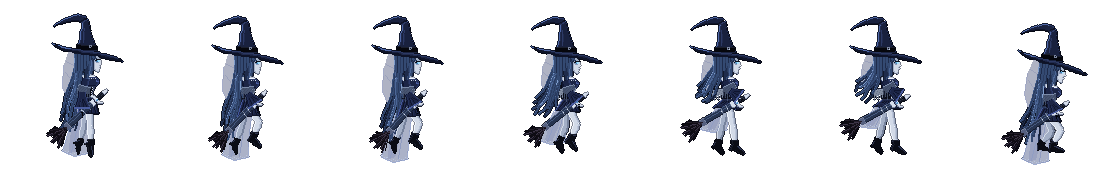
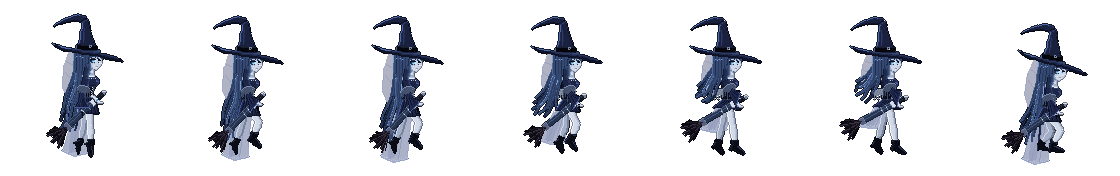
에스카 얼굴을 3/4 각도로 한 칸씩 다시 찍음, 대기 자세 손을 검 손잡이에 (기획서 0.32)
Claude-Session: https://claude.ai/code/session_014QTsqSnFBNjsgiSz2QVxpP

diff --git a/tools/eska_sprite.py b/tools/eska_sprite.py
@@ -34,7 +34,8 @@ C = {
     "skin_d": hx("#76829c"), "skin_s": hx("#a3afc6"), "skin_m": hx("#bcc6da"), "skin": hx("#d2dae8"), "skin_h": hx("#eef3fb"),
     "under": hx("#8e9ab9"),
     "eye": hx("#a8e2ff"), "eye_m": hx("#6cb8e6"), "eye2": hx("#3f7fb3"), "lash": hx("#0a0e1a"), "lash_m": hx("#2a3550"),
-    "lip": hx("#9aa3bd"),
+    "lip": hx("#8d96b2"), "lip_l": hx("#e6ebf5"),
+    "sclera": hx("#e2eaf6"), "glow": hx("#c4dcf2"), "blush": hx("#c9c3df"), "under2": hx("#b2bbd2"),
     "bl_d": hx("#0f1530"), "bl": hx("#1c2546"), "bl_m": hx("#243058"), "bl_l": hx("#2f3c6c"), "bl_r": hx("#4a5c9e"),
     "shawl_d": hx("#3c4864", 205), "shawl": hx("#56647f", 190), "shawl_l": hx("#8494b2", 215),
     "cor": hx("#0a0d19"), "cor_m": hx("#151a2c"), "cor_l": hx("#2a3250"),
@@ -256,7 +257,7 @@ def rotsprite(layer, deg, pivot):
 # ================================================================ 상체 (숙임 회전 층)
 def torso(_):
     # 목: 턱 밑은 그늘
-    neck = poly_cells([(20.2, 28.2), (23.0, 28.2), (23.2, 31.2), (20.0, 31.2)])
+    neck = poly_cells([(22.5, 27.6), (24.5, 27.6), (24.8, 31.2), (22.0, 31.2)])
     paint(neck, "skin_s", left="skin_d")
     for (x, y) in neck:
         if y <= cv(0, 28.9)[1]:
@@ -264,7 +265,7 @@ def torso(_):
     # 드러난 어깨·쇄골
     sh = poly_cells([(18.6, 30.7), (21.5, 30.3), (24.6, 30.6), (25.6, 31.9), (18.3, 32.3)])
     paint(sh, "skin", left="skin_s", top="skin_m")
-    line(21.6, 31.2, 24.6, 31.0, "skin_h")   # 쇄골 빛
+    line(22.2, 31.2, 24.2, 31.0, "skin_h")   # 쇄골 빛 (짧게)
     line(21.0, 31.6, 23.4, 31.5, "skin_m")   # 쇄골 아래 그늘
     # 블라우스: 일자 목선, 가슴 둥근 면, 가슴 밑 그늘
     bl = poly_cells([(18.4, 32.0), (25.7, 31.8), (26.7, 32.6), (27.1, 33.8), (26.8, 35.0), (25.8, 35.9), (19.0, 36.1), (18.5, 34.0)])
@@ -301,54 +302,70 @@ def shawl_back(_):
                 dot(x, low[x] + 1 + k, "shawl_d" if k % 2 else "shawl")
 
 
+# 얼굴 (3/4 각도) — 앞머리·눈썹·눈·코·입·턱·목을 칸 해상도로 한 칸씩 직접 찍은 18×18 영역.
+# 열 0 = 칸 x 84, 행 0 = 칸 y 57 (대기 자세 기준). 윗줄은 모자 챙이 덮는다.
+# 큰 앞쪽 눈(위 어두운 남색 → 아래 밝은 하늘색, 하이라이트 없음, 안쪽에 옅은 흰자) + 좁은 뒤쪽 눈,
+# 끝이 처진 진한 위 속눈썹, 살짝 처진 가는 눈썹, 앞쪽 눈 바깥을 지나는 앞머리 한 가닥, 눈 밑 옅은 그늘,
+# 작은 코(콧대 그늘 + 코끝 빛), 작은 입, 옅은 라벤더 볼, 귀 쪽에서 턱끝으로 내려오는 V자 턱선, 가는 목.
+FACE = [
+    # 012345678901234567
+    "HHHDHHHHDHHHHDHHHH",  # 0  y57 챙 밑
+    "HHHDHHDHHDHHDHHDHH",  # 1  y58 앞머리
+    "HHDHHDmmmDmHmmDHH.",  # 2  y59 앞머리 끝 사이로 이마
+    "HHDHmDqqqmsDqqmHH_",  # 3  y60 살짝 처진 가는 눈썹 + 쌍꺼풀 그늘
+    "HHDHkkkkkksskkkmD_",  # 4  y61 무거운 윗눈꺼풀의 진한 속눈썹
+    "HHDHkDeeiwsneksm__",  # 5  y62 눈동자 위 (눈꺼풀 그늘로 어두움), 처진 눈꼬리
+    "HHDHqDiEEwsnEssm__",  # 6  y63 눈동자 아래 (밝게 빛남, 하이라이트 없음)
+    "HHDHSqqiqsssqssv__",  # 7  y64 아래 속눈썹, 광대 빛
+    "HDHHSsugussssvsm__",  # 8  y65 눈 밑 옅은 그늘, 코끝
+    "HDHHSppsssssmpm___",  # 9  y66 볼, 콧방울 그늘
+    "HDHHSSssssssssm___",  # 10 y67
+    "HDHHHSsssmllsm____",  # 11 y68 작은 입
+    "HDHHH_Ssssvsm_____",  # 12 y69 아랫입술 빛
+    "HDHHHzzSsssm______",  # 13 y70 턱, 턱 밑 그늘
+    "HDHHHzSS_Sm_______",  # 14 y71 턱끝 (목과 사이에 틈)
+    "HDHHHSssS_________",  # 15 y72 가는 목
+    "HDHHHSssS_________",  # 16 y73
+    "HDHHHSssS_________",  # 17 y74
+]
+FACE_KEY = {"H": "hair", "D": "hair_d", "M": "hair_m", "L": "hair_l", "K": "hair_dd",
+            "s": "skin", "S": "skin_s", "m": "skin_m", "v": "skin_h", "z": "skin_d", "u": "under2", "U": "under",
+            "k": "lash", "q": "lash_m", "e": "eye2", "i": "eye_m", "E": "eye", "w": "sclera", "g": "glow",
+            "p": "blush", "n": "skin_m", "l": "lip", "_": "clear"}
+FC, FR = 14, 9   # 얼굴 영역의 머리 스탬프 안 위치
+
+
 @lifted
 def head(_):
-    # 머리: 뒤쪽은 세로로 흐르는 머릿결(결 줄 + 뒤 가장자리 역광)을 자동으로 깔고, 얼굴은 칸 해상도로 손으로 찍는다.
-    # 얼굴: 챙 그늘 아래 이마, 끝이 처진 긴 속눈썹, 하이라이트 없이 빛나는 눈, 눈 밑 그늘, 작은 코끝, 얇은 입술, 뾰족한 턱.
-    FACE = [
-        # c16 ~ c27
-        "HDDDDDDD....",  # r0  챙 밑
-        "HHDDDDDDD...",  # r1
-        "HDHHDDSS_...",  # r2  이마 (챙 그늘)
-        "HDHHHDSSS_..",  # r3
-        "HHDHDHDSSS__",  # r4  뾰족한 앞머리 끝
-        "HHmDDSkkkkk_",  # r5  긴 속눈썹 (끝이 앞으로 뻗음)
-        "HHDDSkeiEEs_",  # r6  처진 눈꼬리 + 빛나는 눈
-        "HHmDSuueEEs_",  # r7
-        "HHHDSsuuuss_",  # r8  눈 밑 그늘
-        "HHHDSssssssv",  # r9  코끝
-        "HHHDSsssssS_",  # r10
-        "HHHDSssssS__",  # r11
-        "HHHDSssssss_",  # r12 윗입술
-        "HHHDSssssl__",  # r13 입술 선
-        "HHHDSSssss__",  # r14
-        "HHHD_Ssss___",  # r15 턱
-        "HHHD__SssS__",  # r16 뾰족한 턱끝
-        "HHHD___zS___",  # r17 턱 밑 (턱선은 실루엣 경계로 귀 쪽 대각선)
-        "HHHD........",  # r18
-        "HHHD........",  # r19
-    ]
-    STRANDS = {3: "D", 6: "m", 9: "D", 12: "m", 15: "D"}
-    rows = []
-    for r, face in enumerate(FACE):
-        if r == 0:
-            back = "K" * 16
-        else:
-            rim = "T" if 5 <= r <= 9 else "L"
-            back = rim + "".join(STRANDS.get(c, "H") for c in range(1, 16))
-            if r >= 15:
-                back = "." * (r - 14) + back[r - 14:]
-        rows.append(back + face)
-    stamp(14, 22, rows, {"K": "hair_dd", "D": "hair_d", "m": "hair_m", "H": "hair", "L": "hair_l", "T": "hair_h",
-                         "S": "skin_s", "s": "skin", "v": "skin_h", "z": "skin_d", "u": "under",
-                         "k": "lash", "e": "eye2", "i": "eye_m", "E": "eye", "l": "lip", "_": "clear"})
-    # 얼굴에 흘러내린 잔머리 한 가닥
-    line(22.6, 24.0, 22.2, 27.6, "hair_d")
-    # 옆머리 (귀 앞에서 가슴까지, 끝이 뾰족) — 결 줄
-    side = tube([(21.4, 25.5), (21.6, 30.0), (21.2, 34.0), (21.6, 36.6)], lambda t: 1.9 * (1 - t) ** 0.7 + 0.4)
+    X0, Y0 = cv(13, 18)
+    X0, Y0 = round(X0), round(Y0)          # 대기 자세에서 (70, 48)
+
+    def hp(c, r, col):
+        dot(X0 + c, Y0 + r, col)
+    # 1) 뒷머리 덩어리: 모자 밑에서 둥글게, 세로로 흐르는 결 줄 + 뒤 가장자리 역광 + 윤기 띠
+    for r in range(0, 27):
+        lx = 3 if r < 3 else 2 if r < 6 else 1
+        rx = 23 if r < 4 else 27 if r < 9 else 13
+        for c in range(lx, rx + 1):
+            col = "hair"
+            if c in (4, 10, 16):
+                col = "hair_d"
+            elif c in (7, 13):
+                col = "hair_m"
+            hp(c, r, col)
+        hp(lx, r, "hair_h" if 8 <= r <= 15 else "hair_l")
+    for c in range(3, 12):                  # 윤기 띠 (천사의 고리)
+        hp(c, 11 + (c % 3 == 0), "hair_l" if c % 2 else "hair_h")
+    # 2) 얼굴 (앞머리 포함, 한 칸씩 찍은 영역)
+    for r, row in enumerate(FACE):
+        for c, ch in enumerate(row):
+            if ch in FACE_KEY:
+                hp(FC + c, FR + r, FACE_KEY[ch])
+    # 4) 옆머리: 귀 앞에서 가슴까지, 앞쪽 볼선을 감싸고 끝이 뾰족
+    side = tube([(21.0, 27.0), (21.3, 31.0), (21.1, 34.5), (21.6, 37.5)], lambda t: 1.8 * (1 - t) ** 0.7 + 0.35)
     paint(side, "hair", left="hair_d", right="hair_l")
-    line(21.4, 27.0, 21.5, 33.5, "hair_m")
-    side2 = tube([(20.3, 30.0), (20.2, 34.0), (20.5, 37.6)], lambda t: 1.4 * (1 - t) + 0.4)
+    line(21.1, 28.0, 21.3, 34.0, "hair_m")
+    side2 = tube([(20.0, 29.0), (19.8, 33.5), (20.2, 38.0)], lambda t: 1.3 * (1 - t) + 0.35)
     paint(side2, "hair_d", left="hair_dd")
 
 
@@ -607,7 +624,7 @@ def weapon(p):
     paint(tube([add(g, d, -1.2), add(g, d, -4.6)], lambda t: 1.3), "grip", top="grip_l")
     for k in (2.0, 3.2, 4.2):  # 손잡이 감은 가죽 결
         pt(*add(g, d, -k), "grip_l")
-    paint(tube([add(g, d, -5.0), add(g, d, -7.2)], lambda t: 1.4 * (1 - t) + 0.3), "silver", bottom="silver_d")
+    paint(tube([add(g, d, -4.8), add(g, d, -5.9)], lambda t: 1.3 * (1 - t) + 0.4), "silver_d", top="silver")  # 작은 은 폼멜
     for s in (1, -1):
         arm = [g, add(g, n, s * 1.4), add(add(g, n, s * 2.6), d, s * 0.3), add(add(g, n, s * 3.3), d, s * 1.2)]
         paint(tube(arm, lambda t: 0.9 * (1 - t) + 0.35), "silver", bottom="silver_d")
@@ -630,7 +647,7 @@ def near_arm(p):
     ud = (ux / ul, uy / ul)
     un = (-ud[1], ud[0])
     c0 = add(sh, ud, ul * 0.72)
-    band = tube([add(c0, un, -3.2), add(c0, un, 2.6)], lambda t: 3.0)
+    band = tube([add(c0, un, -3.4), add(c0, un, 2.8)], lambda t: 0.8 + 2.6 * math.sin(math.pi * t) ** 0.7)  # 끝이 가는 렌즈 모양
     for c in band:
         dot(*c, "shawl")
     for (x, y) in band:
@@ -652,10 +669,23 @@ def near_arm(p):
     fl = math.hypot(fx, fy) or 1
     fd = (fx / fl, fy / fl)
     cuff = add(wr, fd, 0.8)
-    bell = tube([el, cuff], lambda t: 3.3 + 4.4 * t ** 1.6)
-    paint(bell, "bl", left="bl_d", right="bl_l", left2="bl_m")
+    # 종 모양 소매: 팔이 수평에 가까울수록 아래 자락이 중력으로 늘어진다 (위 선은 팔을 따라감)
+    n_ = (fd[1], -fd[0])
+    if n_[1] > 0:
+        n_ = (-n_[0], -n_[1])                     # n_ = 위쪽
+    hz = abs(fd[0])                               # 1 = 팔이 수평
+    spread = 1.4 + (1 - hz) * 2.4
+    hang = 4.6 * hz
+    shape = [add(el, n_, 1.65), add(add(el, fd, fl * 0.55), n_, 1.7), add(cuff, n_, spread),
+             add(add(cuff, n_, -spread), (-0.6 * fd[0], hang)), add(add(add(el, fd, fl * 0.5), n_, -1.9), (0, hang * 0.35)),
+             add(el, n_, -1.65)]
+    bell = {c: 0.0 for c in poly_cells(shape)}
+    for c in poly_cells([add(cuff, n_, spread), add(add(cuff, n_, -spread), (-0.6 * fd[0], hang)),
+                         add(add(cuff, fd, -1.2), n_, -spread), add(add(cuff, fd, -1.2), n_, spread)]):
+        bell[c] = 1.0                             # 소매 끝 (안감 빛)
+    paint(bell, "bl", left="bl_d", right="bl_l", left2="bl_m", bottom="bl_d")
     for c, t in bell.items():
-        if t > 0.95:
+        if t > 0.9 and ((c[0] + 1, c[1]) not in bell or (c[0], c[1] + 1) not in bell):
             dot(*c, "bl_r")
     nn = (-fd[1], fd[0])
     for s in (-1.4, -0.3, 0.9):  # 소매 주름
@@ -700,7 +730,7 @@ FAR_HIP = (21.0, 46.0)
 IDLE = {
     "bx": 0, "by": 0, "lean": 0.0,
     "near": ((0.5, 10.0), (0.0, 19.0), 0), "far": ((-2.5, 10.5), (-4.5, 18.5), 0),
-    "elbow": (-0.5, 7.5), "wrist": (0.5, 14.0),
+    "elbow": (-0.3, 6.7), "wrist": (8.2, 7.6),  # 대기: 손을 검 손잡이 끝에 가볍게 얹음
     "hair": (0, 0, 0, 0), "skirt": (0, 0, 0, 0), "over": (0, 0), "veil": (0, 0), "sword": 0, "fringe": 0,
 }
 

diff --git a/tools/eska_anim.py b/tools/eska_anim.py
@@ -299,8 +299,21 @@ def full_sheet():
     pv.save(OUT / "sheet_preview.png")
 
 
+def idle_preview():
+    """대기 한 장: 4배 전신 + 얼굴 확대 10배 (어두운 배경)."""
+    f = S.render(S.IDLE).copy()
+    bg = Image.new("RGBA", f.size, (26, 31, 46, 255))
+    bg.alpha_composite(f)
+    bb = f.getbbox()
+    body = bg.crop((bb[0] - 6, bb[1] - 6, bb[2] + 6, bb[3] + 6))
+    body.resize((body.width * 4, body.height * 4), Image.NEAREST).save(OUT / "idle_preview.png")
+    face = bg.crop((74, 46, 106, 80))
+    face.resize((face.width * 10, face.height * 10), Image.NEAREST).save(OUT / "idle_face.png")
+
+
 if __name__ == "__main__":
     OUT.mkdir(parents=True, exist_ok=True)
+    idle_preview()
     for name in ANIMS:
         sheet(name, frames_of(name))
     full_sheet()

diff --git a/docs/gdd/10-art-direction.md b/docs/gdd/10-art-direction.md
@@ -50,9 +50,9 @@
 - 레퍼런스: 인상은 웹툰 『히어로 킬러』의 철의 마녀 아진, 의상 구성은 『마녀의 여행』 일레이나, 긴 겉치마·금속빛 옷감·코르셋 벨트는 『클레르 옵스퀴르: 33 원정대』 마엘의 의상, 얀데레풍 외형(텅 빈 눈·한쪽만 오염된 요소·약함과 섬뜩함의 대비)은 개발자가 제시한 팬아트 이미지의 분위기 — **느낌만 참고하고 고유 요소(별자리 문양, 별 모양 브로치, 퍼프 소매 실루엣 등)는 쓰지 않는다.** 마녀 모자·노출된 어깨·빗자루 검으로 차별화한다. [확정]
 - 이미지 생성 프롬프트(디자인 앵커 포함): [`../art/eska-design-prompts.txt`](../art/eska-design-prompts.txt)
 - **디자인 시트 기준안: [`assets/eska-sheet-v3.png`](assets/eska-sheet-v3.png)** — 얀데레풍 외형·빗자루 검까지 반영된 현재 기준
-- 게임 스프라이트 (사이드뷰, 코드로 찍은 도트 — 리그 `tools/eska_sprite.py`, 동작 정의 `tools/eska_anim.py`): 전체 시트 [`../art/eska/sheet.png`](../art/eska/sheet.png) · 이름표 붙은 3배 미리보기 [`../art/eska/sheet_preview.png`](../art/eska/sheet_preview.png) · 움직이는 미리보기 [`run.gif`](../art/eska/run.gif) [`jump.gif`](../art/eska/jump.gif) [`double_jump.gif`](../art/eska/double_jump.gif) [`dash.gif`](../art/eska/dash.gif). [시도 중]
+- 게임 스프라이트 (사이드뷰, 코드로 찍은 도트 — 리그 `tools/eska_sprite.py`, 동작 정의 `tools/eska_anim.py`): 전체 시트 [`../art/eska/sheet.png`](../art/eska/sheet.png) · 이름표 붙은 3배 미리보기 [`../art/eska/sheet_preview.png`](../art/eska/sheet_preview.png) · 대기 확대 [`idle_preview.png`](../art/eska/idle_preview.png) · 얼굴 확대 [`idle_face.png`](../art/eska/idle_face.png) · 움직이는 미리보기 [`run.gif`](../art/eska/run.gif) [`jump.gif`](../art/eska/jump.gif) [`double_jump.gif`](../art/eska/double_jump.gif) [`dash.gif`](../art/eska/dash.gif). [시도 중]
   - 동작: 대기 1, 달리기 8(질주: 상체 28° 숙임·엉덩이를 5~6px 내려 무게중심을 낮게, 디딤 무릎을 깊게 굽힘, 큰 보폭·뒷발꿈치를 엉덩이까지 차올림·무릎 높이, 머리·베일·겉치마가 거의 수평으로 날림, 프레임당 40ms, 착지 먼지·속도선은 효과 층), 점프 7(이륙·상승 2·정점·하강 2·착지), 이단점프 3(웅크림·마법진 딛기·솟구침, 마법진 효과는 별도 층), 대시 3(시작·돌진·마무리, 잔상은 별도 층). 한 칸 160×176px, 발밑 기준점 칸 좌표 (89, 154).
-  - 2배 해상도: 몸 약 104px(정수리~발바닥), 모자 포함 약 148px. 치수·관절·자세 값은 1배 단위로 적고 2배 격자에 찍어, 실루엣 비례는 그대로 두고 선·장식·머릿결을 1px로 더 가늘고 촘촘하게 넣는다. 얼굴은 2배 격자에 손으로 찍고(긴 속눈썹, 하이라이트 없이 빛나는 눈, 눈 밑 그늘, 작은 코·입술, 뾰족한 턱), 머리 뒤쪽은 세로로 흐르는 결 줄. 뒷머리 가닥 10개마다 안쪽 결과 윗면 윤기. 허리가 가는 체형, 각지게 꺾여 가는 끝이 뒤로 처지는 날카로운 모자, 옆머리로 볼을 가린 작은 얼굴. 뒤에서 오는 차가운 역광, 셀아웃 외곽선.
+  - 2배 해상도: 몸 약 104px(정수리~발바닥), 모자 포함 약 148px. 치수·관절·자세 값은 1배 단위로 적고 2배 격자에 찍어, 실루엣 비례는 그대로 두고 선·장식·머릿결을 1px로 더 가늘고 촘촘하게 넣는다. 얼굴은 3/4 각도로 18×18 영역을 한 칸씩 손으로 찍는다(무거운 윗눈꺼풀의 진한 속눈썹, 위 남색 → 아래 하늘색으로 빛나는 눈동자·하이라이트 없음, 좁은 뒤쪽 눈, 살짝 처진 가는 눈썹, 눈 밑 옅은 그늘, 작은 코·입, 옅은 라벤더 볼, V자 턱선, 가는 목 — 순수 옆얼굴은 코·입·턱이 톱니처럼 보여 기각). 대기 자세는 손을 검 손잡이 끝에 가볍게 얹고, 종 모양 소매는 팔이 수평일수록 아래 자락이 늘어진다, 머리 뒤쪽은 세로로 흐르는 결 줄. 뒷머리 가닥 10개마다 안쪽 결과 윗면 윤기. 허리가 가는 체형, 각지게 꺾여 가는 끝이 뒤로 처지는 날카로운 모자, 옆머리로 볼을 가린 작은 얼굴. 뒤에서 오는 차가운 역광, 셀아웃 외곽선.
   - 리그 구조: 상체·머리·모자는 손으로 찍은 픽셀을 통째로 옮기거나 엉덩이를 축으로 숙이고(RotSprite 방식 회전 — Scale2x 세 번으로 8배 키워 돌린 뒤 줄여 선이 깨지지 않게, 대시 34°·엉덩이 7px 내림), 다리·팔·뒷머리·치마·겉치마·베일·검집은 관절 위치와 휘날림 값으로 프레임마다 계산한다. 뒷머리는 한 덩어리가 아니라 가늘고 끝이 1px로 뾰족한 가닥 8개 — 끝으로 갈수록 벌어지고, 박자가 다른 물결 두 개가 뿌리에서 끝으로 시간차를 두고 흘러 불규칙하게 찰랑인다(가닥마다 길이·박자가 다름, 동작별 진폭). 상승 땐 머리카락·치마가 아래로 끌리고, 정점부터 바람 없이 떠오르며, 대시 땐 뒤로 길게 날린다.
 - 디자인 시트 2차: [`assets/eska-sheet-v2.webp`](assets/eska-sheet-v2.webp) — 레이피어 시절 (비교용)
 - 디자인 시트 1차 생성본: [`assets/eska-sheet-v1.webp`](assets/eska-sheet-v1.webp) — 신비감 보완 전 (비교용)

diff --git a/docs/gdd/19-appendix.md b/docs/gdd/19-appendix.md
@@ -115,3 +115,4 @@
 | 0.29 | 2026-10-25 | 뒷머리를 흐르는 가닥으로, 달리기 속도감 강화(26°, 40ms, 속도선) (10, 19장) | |
 | 0.30 | 2026-10-25 | 달리기 무게중심을 낮춤(28°), 뒷머리 가닥 8개·불규칙 물결, 대시 34° (10, 19장) | |
 | 0.31 | 2026-10-25 | 해상도 2배: 게임 화면 1280×720, 주인공 스프라이트 2배로 재작성(머릿결 묘사 추가) (10, 19장) | |
+| 0.32 | 2026-10-25 | 주인공 얼굴을 3/4 각도로 한 칸씩 다시 찍음, 대기 자세 손을 검 손잡이에 (10, 19장) | |

diff --git a/docs/gdd/README.md b/docs/gdd/README.md
@@ -1,6 +1,6 @@
 # [가제] 다크판타지 2D 사이드뷰 게임 — 게임 기획서(GDD)
 
-> 문서 버전: 0.31 · 작성 시작: 2026-10-25
+> 문서 버전: 0.32 · 작성 시작: 2026-10-25
 > 이 폴더는 업계 표준 GDD 19개 섹션을 **섹션별 파일**로 나눈 것이다. 섹션 단위로 채우고 수정 이력을 git으로 추적한다.
 
 ## 상태 표기 규칙
